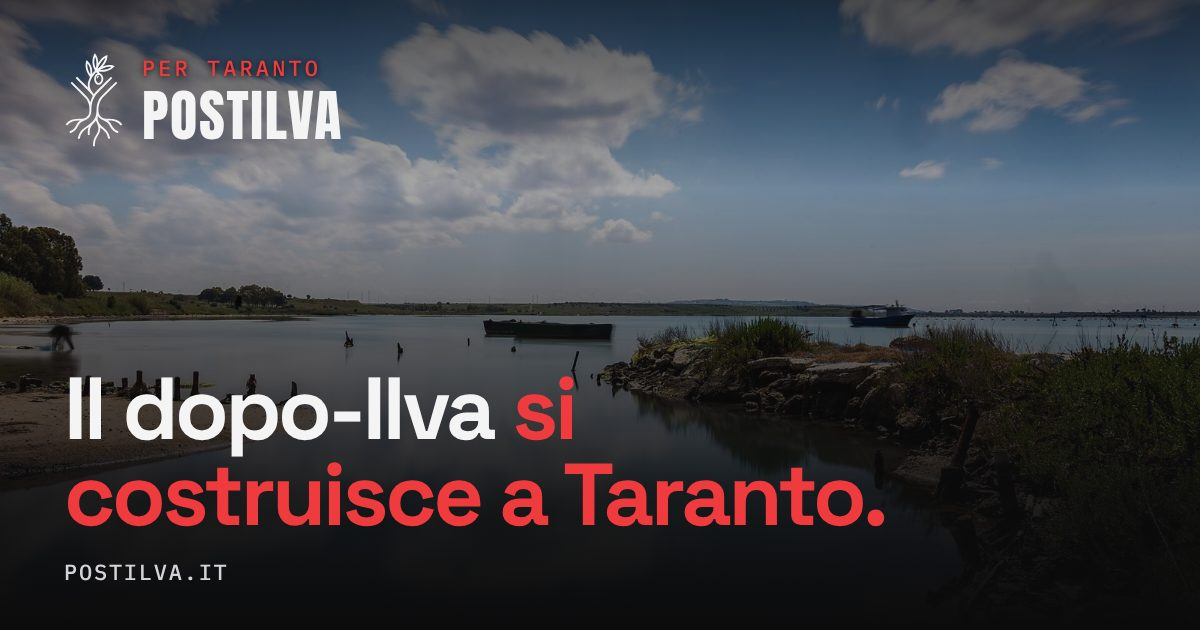
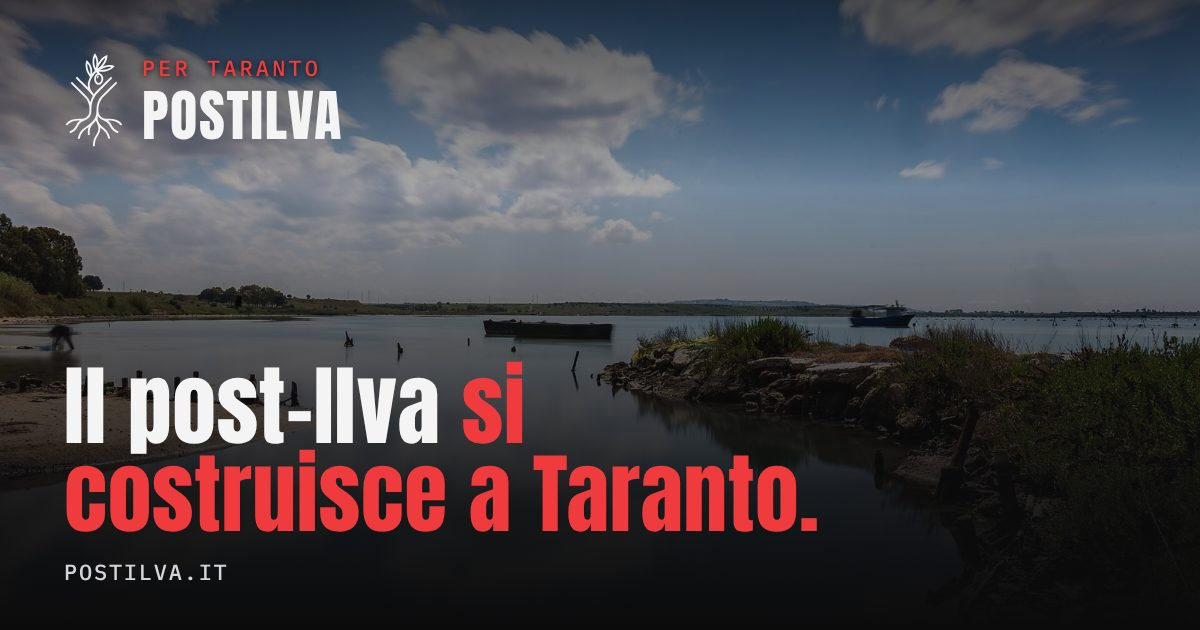
Home: titoli in Anton, «post-Ilva» al posto di «dopo-Ilva»
Claude-Session: https://claude.ai/code/session_01GuMA5u9LMHs7V7kwdekV7j

Changed region(s): [[0.0308, 0.573, 0.74, 0.8444]]

diff --git a/404.html b/404.html
@@ -1,7 +1,7 @@
 <!doctype html>
-<html lang="it">
+<html lang="it" class="pagina-home">
 <meta charset="utf-8">
-<title>Postilva: il dopo-Ilva si costruisce a Taranto</title>
+<title>Postilva: il post-Ilva si costruisce a Taranto</title>
 <meta name="viewport" content="width=device-width, initial-scale=1, viewport-fit=cover">
 <meta name="description" content="Postilva lavora per tavoli: sei gruppi aperti su bonifiche, aria, verde, spazi, lavoro ed energia. Scegli il tuo.">
 <script type="application/ld+json">{"@context": "https://schema.org", "@type": "WebSite", "name": "Postilva", "alternateName": "Post Ilva", "url": "https://www.postilva.it/"}</script>
@@ -10,7 +10,7 @@
 <meta property="og:type" content="website">
 <meta property="og:site_name" content="Postilva">
 <meta property="og:locale" content="it_IT">
-<meta property="og:title" content="Postilva: il dopo-Ilva si costruisce a Taranto">
+<meta property="og:title" content="Postilva: il post-Ilva si costruisce a Taranto">
 <meta property="og:description" content="Postilva lavora per tavoli: sei gruppi aperti su bonifiche, aria, verde, spazi, lavoro ed energia. Scegli il tuo.">
 <meta property="og:url" content="https://www.postilva.it/">
 <meta property="og:image" content="https://www.postilva.it/img/anteprime/home.jpg">
@@ -18,9 +18,9 @@
 <meta property="og:image:type" content="image/jpeg">
 <meta property="og:image:width" content="1200">
 <meta property="og:image:height" content="630">
-<meta property="og:image:alt" content="Postilva. Il dopo-Ilva si costruisce a Taranto.">
+<meta property="og:image:alt" content="Postilva. Il post-Ilva si costruisce a Taranto.">
 <meta name="twitter:card" content="summary_large_image">
-<meta name="twitter:title" content="Postilva: il dopo-Ilva si costruisce a Taranto">
+<meta name="twitter:title" content="Postilva: il post-Ilva si costruisce a Taranto">
 <meta name="twitter:description" content="Postilva lavora per tavoli: sei gruppi aperti su bonifiche, aria, verde, spazi, lavoro ed energia. Scegli il tuo.">
 <meta name="twitter:image" content="https://www.postilva.it/img/anteprime/home.jpg">
 <link rel="icon" href="/img/icon-192.png" sizes="192x192" type="image/png">
@@ -29,6 +29,7 @@
 <link rel="apple-touch-icon" href="/apple-touch-icon.png">
 <link rel="manifest" href="/site.webmanifest">
 <link rel="preload" href="/font/space-grotesk-latin.woff2" as="font" type="font/woff2" crossorigin>
+<link rel="preload" href="/font/anton-latin-400.woff2" as="font" type="font/woff2" crossorigin>
 <link rel="stylesheet" href="/stile.css">
 
 <header class="topbar">
@@ -48,7 +49,7 @@
 <section class="hero casa" id="inizio">
   <div class="in">
     <p class="eyebrow">Associazione · Taranto · dal 2026</p>
-    <h1>Il dopo-Ilva <span>si costruisce a Taranto.</span></h1>
+    <h1>Il post-Ilva <span>si costruisce a Taranto.</span></h1>
     <p class="lead">Postilva è un'associazione di cittadini. Leggiamo i documenti, facciamo domande agli enti e lavoriamo a progetti concreti su bonifiche, aria, verde, spazi, lavoro ed energia.</p>
     <div class="azioni">
       <a class="btn" href="#tavoli">Scopri i sei tavoli</a>
@@ -174,7 +175,7 @@
         <span class="tfoto" style="background-image:url('/img/italsider-1976-acciaieria.jpg');background-position:center 60%"><span class="tag"><svg class="ico" viewBox="0 0 24 24" aria-hidden="true"><path d="M3 17.5h18"/><path d="M5.5 17.5V15a6.5 6.5 0 0 1 13 0v2.5"/><path d="M10 8.9V13"/><path d="M14 8.9V13"/></svg>T5</span><b>Lavoro</b></span>
         <span class="tcorpo">
           <span class="tclaim">Restare, tornare, cambiare mestiere.</span>
-          <span class="ttesto">Legare il dopo-Ilva al lavoro: accompagnare chi deve cambiare mestiere, rendere visibili le opportunità, far restare e far tornare i giovani.</span>
+          <span class="ttesto">Legare il post-Ilva al lavoro: accompagnare chi deve cambiare mestiere, rendere visibili le opportunità, far restare e far tornare i giovani.</span>
           <span class="tpiede"><span>Coordina Emanuele Sancesario</span><span class="apri">Entra ›</span></span>
         </span>
       </a>

diff --git a/index.html b/index.html
@@ -1,7 +1,7 @@
 <!doctype html>
-<html lang="it">
+<html lang="it" class="pagina-home">
 <meta charset="utf-8">
-<title>Postilva: il dopo-Ilva si costruisce a Taranto</title>
+<title>Postilva: il post-Ilva si costruisce a Taranto</title>
 <meta name="viewport" content="width=device-width, initial-scale=1, viewport-fit=cover">
 <meta name="description" content="Postilva lavora per tavoli: sei gruppi aperti su bonifiche, aria, verde, spazi, lavoro ed energia. Scegli il tuo.">
 <script type="application/ld+json">{"@context": "https://schema.org", "@type": "WebSite", "name": "Postilva", "alternateName": "Post Ilva", "url": "https://www.postilva.it/"}</script>
@@ -10,7 +10,7 @@
 <meta property="og:type" content="website">
 <meta property="og:site_name" content="Postilva">
 <meta property="og:locale" content="it_IT">
-<meta property="og:title" content="Postilva: il dopo-Ilva si costruisce a Taranto">
+<meta property="og:title" content="Postilva: il post-Ilva si costruisce a Taranto">
 <meta property="og:description" content="Postilva lavora per tavoli: sei gruppi aperti su bonifiche, aria, verde, spazi, lavoro ed energia. Scegli il tuo.">
 <meta property="og:url" content="https://www.postilva.it/">
 <meta property="og:image" content="https://www.postilva.it/img/anteprime/home.jpg">
@@ -18,9 +18,9 @@
 <meta property="og:image:type" content="image/jpeg">
 <meta property="og:image:width" content="1200">
 <meta property="og:image:height" content="630">
-<meta property="og:image:alt" content="Postilva. Il dopo-Ilva si costruisce a Taranto.">
+<meta property="og:image:alt" content="Postilva. Il post-Ilva si costruisce a Taranto.">
 <meta name="twitter:card" content="summary_large_image">
-<meta name="twitter:title" content="Postilva: il dopo-Ilva si costruisce a Taranto">
+<meta name="twitter:title" content="Postilva: il post-Ilva si costruisce a Taranto">
 <meta name="twitter:description" content="Postilva lavora per tavoli: sei gruppi aperti su bonifiche, aria, verde, spazi, lavoro ed energia. Scegli il tuo.">
 <meta name="twitter:image" content="https://www.postilva.it/img/anteprime/home.jpg">
 <link rel="icon" href="/img/icon-192.png" sizes="192x192" type="image/png">
@@ -29,6 +29,7 @@
 <link rel="apple-touch-icon" href="/apple-touch-icon.png">
 <link rel="manifest" href="/site.webmanifest">
 <link rel="preload" href="/font/space-grotesk-latin.woff2" as="font" type="font/woff2" crossorigin>
+<link rel="preload" href="/font/anton-latin-400.woff2" as="font" type="font/woff2" crossorigin>
 <link rel="stylesheet" href="/stile.css">
 
 <header class="topbar">
@@ -48,7 +49,7 @@
 <section class="hero casa" id="inizio">
   <div class="in">
     <p class="eyebrow">Associazione · Taranto · dal 2026</p>
-    <h1>Il dopo-Ilva <span>si costruisce a Taranto.</span></h1>
+    <h1>Il post-Ilva <span>si costruisce a Taranto.</span></h1>
     <p class="lead">Postilva è un'associazione di cittadini. Leggiamo i documenti, facciamo domande agli enti e lavoriamo a progetti concreti su bonifiche, aria, verde, spazi, lavoro ed energia.</p>
     <div class="azioni">
       <a class="btn" href="#tavoli">Scopri i sei tavoli</a>
@@ -174,7 +175,7 @@
         <span class="tfoto" style="background-image:url('/img/italsider-1976-acciaieria.jpg');background-position:center 60%"><span class="tag"><svg class="ico" viewBox="0 0 24 24" aria-hidden="true"><path d="M3 17.5h18"/><path d="M5.5 17.5V15a6.5 6.5 0 0 1 13 0v2.5"/><path d="M10 8.9V13"/><path d="M14 8.9V13"/></svg>T5</span><b>Lavoro</b></span>
         <span class="tcorpo">
           <span class="tclaim">Restare, tornare, cambiare mestiere.</span>
-          <span class="ttesto">Legare il dopo-Ilva al lavoro: accompagnare chi deve cambiare mestiere, rendere visibili le opportunità, far restare e far tornare i giovani.</span>
+          <span class="ttesto">Legare il post-Ilva al lavoro: accompagnare chi deve cambiare mestiere, rendere visibili le opportunità, far restare e far tornare i giovani.</span>
           <span class="tpiede"><span>Coordina Emanuele Sancesario</span><span class="apri">Entra ›</span></span>
         </span>
       </a>

diff --git a/lavoro/index.html b/lavoro/index.html
@@ -3,14 +3,14 @@
 <meta charset="utf-8">
 <title>Lavoro: restare, tornare, cambiare mestiere | Postilva</title>
 <meta name="viewport" content="width=device-width, initial-scale=1, viewport-fit=cover">
-<meta name="description" content="Il tavolo che lega il dopo-Ilva al lavoro: orientamento, formazione, nuove imprese.">
+<meta name="description" content="Il tavolo che lega il post-Ilva al lavoro: orientamento, formazione, nuove imprese.">
 <link rel="canonical" href="https://www.postilva.it/lavoro/">
 <meta name="theme-color" content="#0b0b0c">
 <meta property="og:type" content="website">
 <meta property="og:site_name" content="Postilva">
 <meta property="og:locale" content="it_IT">
 <meta property="og:title" content="Lavoro: restare, tornare, cambiare mestiere | Postilva">
-<meta property="og:description" content="Il tavolo che lega il dopo-Ilva al lavoro: orientamento, formazione, nuove imprese.">
+<meta property="og:description" content="Il tavolo che lega il post-Ilva al lavoro: orientamento, formazione, nuove imprese.">
 <meta property="og:url" content="https://www.postilva.it/lavoro/">
 <meta property="og:image" content="https://www.postilva.it/img/anteprime/lavoro.jpg">
 <meta property="og:image:secure_url" content="https://www.postilva.it/img/anteprime/lavoro.jpg">
@@ -20,7 +20,7 @@
 <meta property="og:image:alt" content="Postilva. Lavoro: restare, tornare, cambiare mestiere.">
 <meta name="twitter:card" content="summary_large_image">
 <meta name="twitter:title" content="Lavoro: restare, tornare, cambiare mestiere | Postilva">
-<meta name="twitter:description" content="Il tavolo che lega il dopo-Ilva al lavoro: orientamento, formazione, nuove imprese.">
+<meta name="twitter:description" content="Il tavolo che lega il post-Ilva al lavoro: orientamento, formazione, nuove imprese.">
 <meta name="twitter:image" content="https://www.postilva.it/img/anteprime/lavoro.jpg">
 <link rel="icon" href="/img/icon-192.png" sizes="192x192" type="image/png">
 <link rel="icon" href="/favicon.ico" sizes="48x48">
@@ -61,7 +61,7 @@
 <section class="fascia tinta"><div class="in">
   <p class="eyebrow">Che cosa vuole fare</p>
   <h2 class="tit">Dove vogliamo <span>arrivare.</span></h2>
-  <p class="obiettivo">Legare il dopo-Ilva al lavoro: accompagnare chi deve cambiare mestiere, rendere visibili le opportunità, far restare e far tornare i giovani.</p>
+  <p class="obiettivo">Legare il post-Ilva al lavoro: accompagnare chi deve cambiare mestiere, rendere visibili le opportunità, far restare e far tornare i giovani.</p>
   
   
 </div></section>

diff --git a/associazione/index.html b/associazione/index.html
@@ -3,14 +3,14 @@
 <meta charset="utf-8">
 <title>Che cos'è Postilva</title>
 <meta name="viewport" content="width=device-width, initial-scale=1, viewport-fit=cover">
-<meta name="description" content="Postilva è un'associazione di Taranto nata nel 2026 per lavorare sul dopo-Ilva. Chi siamo e come siamo organizzati.">
+<meta name="description" content="Postilva è un'associazione di Taranto nata nel 2026 per lavorare sul post-Ilva. Chi siamo e come siamo organizzati.">
 <link rel="canonical" href="https://www.postilva.it/associazione/">
 <meta name="theme-color" content="#0b0b0c">
 <meta property="og:type" content="website">
 <meta property="og:site_name" content="Postilva">
 <meta property="og:locale" content="it_IT">
 <meta property="og:title" content="Che cos'è Postilva">
-<meta property="og:description" content="Postilva è un'associazione di Taranto nata nel 2026 per lavorare sul dopo-Ilva. Chi siamo e come siamo organizzati.">
+<meta property="og:description" content="Postilva è un'associazione di Taranto nata nel 2026 per lavorare sul post-Ilva. Chi siamo e come siamo organizzati.">
 <meta property="og:url" content="https://www.postilva.it/associazione/">
 <meta property="og:image" content="https://www.postilva.it/img/anteprime/associazione.jpg">
 <meta property="og:image:secure_url" content="https://www.postilva.it/img/anteprime/associazione.jpg">
@@ -20,7 +20,7 @@
 <meta property="og:image:alt" content="Postilva. Far ripartire Taranto.">
 <meta name="twitter:card" content="summary_large_image">
 <meta name="twitter:title" content="Che cos'è Postilva">
-<meta name="twitter:description" content="Postilva è un'associazione di Taranto nata nel 2026 per lavorare sul dopo-Ilva. Chi siamo e come siamo organizzati.">
+<meta name="twitter:description" content="Postilva è un'associazione di Taranto nata nel 2026 per lavorare sul post-Ilva. Chi siamo e come siamo organizzati.">
 <meta name="twitter:image" content="https://www.postilva.it/img/anteprime/associazione.jpg">
 <link rel="icon" href="/img/icon-192.png" sizes="192x192" type="image/png">
 <link rel="icon" href="/favicon.ico" sizes="48x48">

diff --git a/stile.css b/stile.css
@@ -427,3 +427,8 @@ a.riq:hover { background: var(--surface-2); }
 .pp-punti button::before { content: ""; display: block; width: 12px; height: 12px; border-radius: 50%; border: 2px solid #ffffff; }
 .pp-punti button[aria-current="true"]::before { background: #ffffff; }
 
+
+/* Titoli grossi della home in Anton, come il logo (26/11/2026): apertura e titoli delle fasce. Anton ha un solo peso (400). */
+[data-vista="home"] .hero h1, .pagina-home .hero h1,
+[data-vista="home"] .tit, .pagina-home .tit { font-family: "Anton", Impact, var(--f-body); font-weight: 400; letter-spacing: 0.005em; line-height: 1.02; }
+[data-vista="home"] .hero h1, .pagina-home .hero h1 { line-height: 1; }
